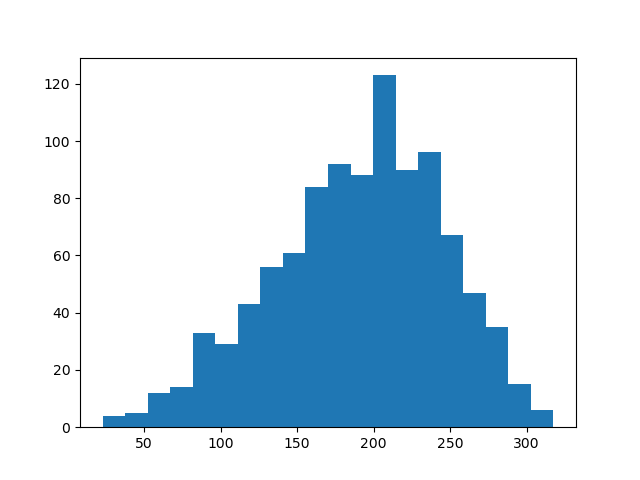
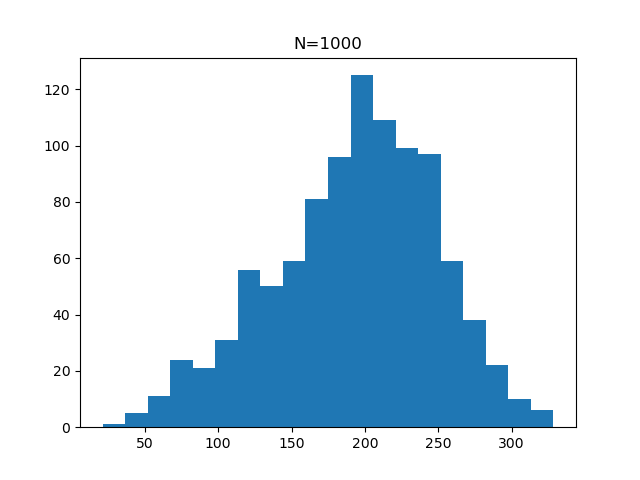
1st homework

diff --git a/1stHomework/walk3D.py b/1stHomework/walk3D.py
@@ -24,7 +24,7 @@ def randomWalk3D(steps, stepLeng, x0, y0, z0):
         '''
         return x, y, z
 
-totalNum = 1000
+totalNum = 5000000
 steps = 200
 stepLeng = 0.5
 x0 = y0 = z0 = 5
@@ -45,8 +45,9 @@ for i in range(totalNum):
 plt.title('N = {}'.format(totalNum))
 ax.scatter3D(xr,yr,zr,cmap = 'Blues')
 plt.savefig("./{}p.png".format(totalNum))
-plt.show()
 fig, ax = plt.subplots(1,1)
-ax.hist(r,bins = 20)
+plt.subplot(1,1,1)
+plt.hist(r,bins = 20)
+plt.title('N={}'.format(totalNum))
 fig.savefig('./{}h.png'.format(totalNum))
 
